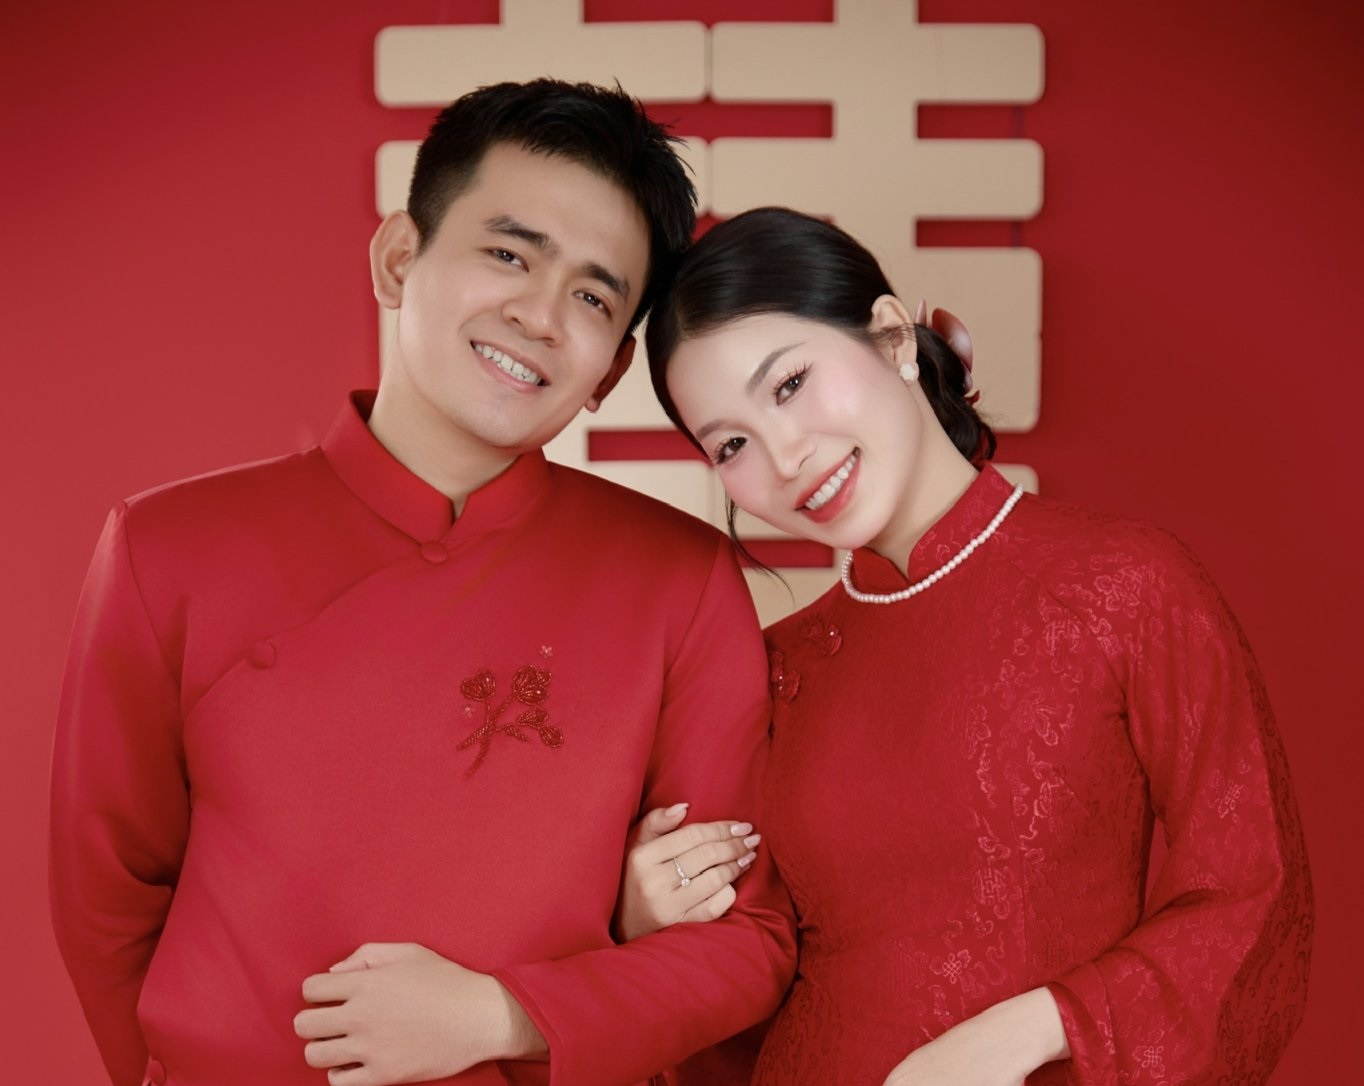
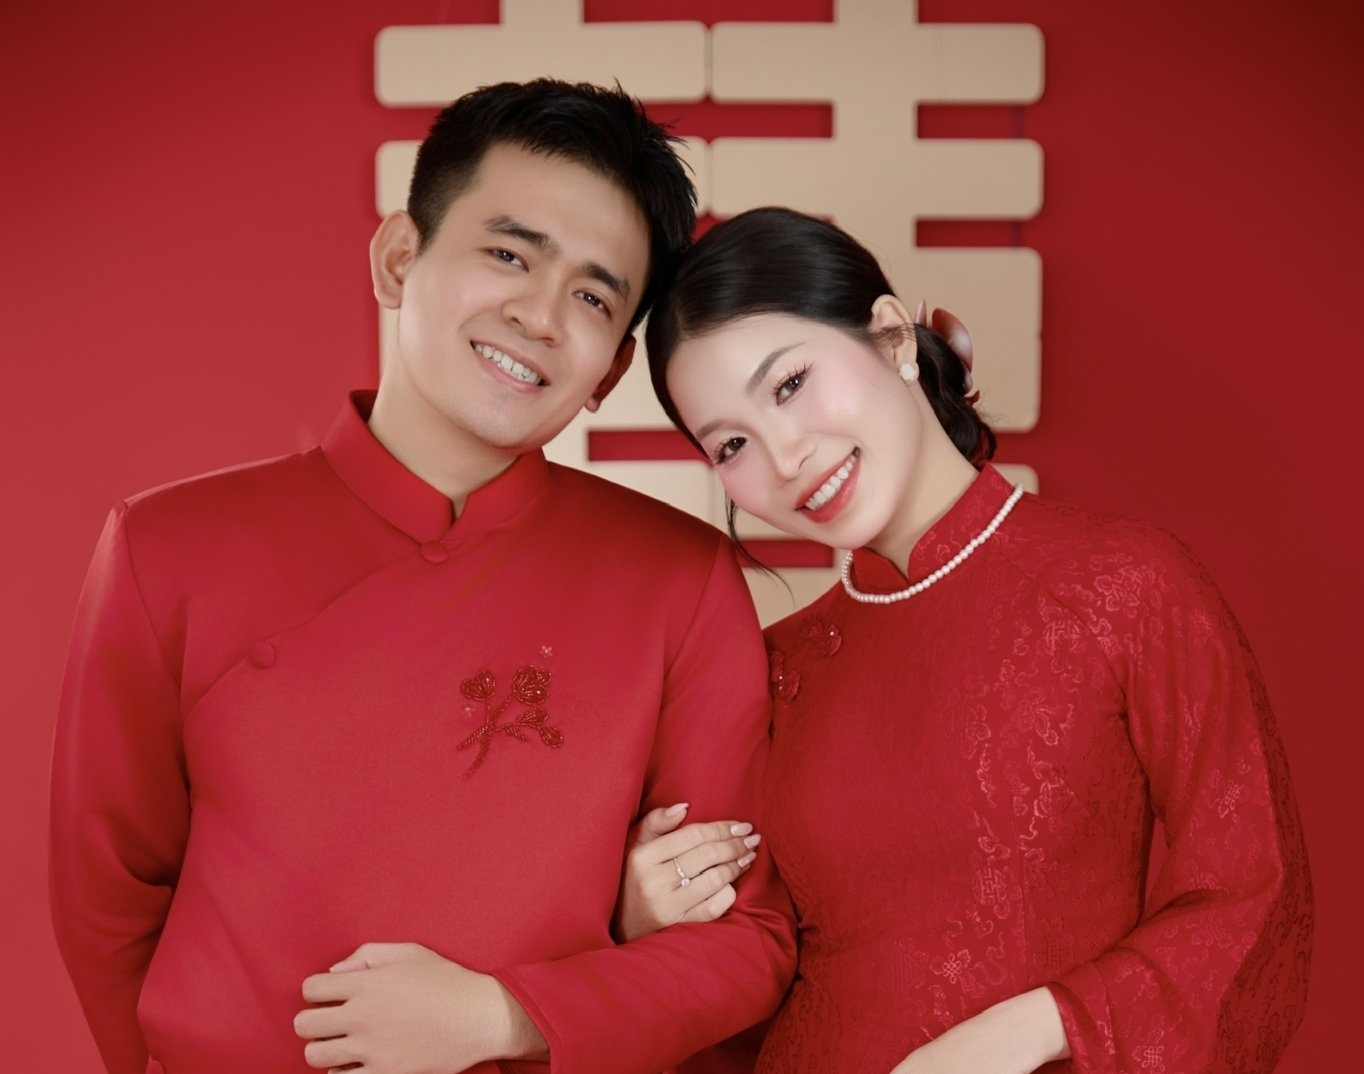
bigupdate

diff --git a/kh_wedding.html b/kh_wedding.html
@@ -1485,7 +1485,7 @@
   <div class="our-love-wrap">
     <div class="reveal">
       <div class="our-love-main-photo">
-        <img src="./image_wedding/10.jpg" alt="Our Love Main Banner">
+        <img src="./image_wedding/9.jpg" alt="Our Love Main Banner">
       </div>
     </div>
     
@@ -1496,22 +1496,26 @@
         <div class="marquee-track">
           <!-- Nhóm ảnh 1 -->
           <div class="marquee-group">
-            <div class="our-love-item"><img src="./image_wedding/8.jpg" alt="Our Love Photo 1"></div>
-            <div class="our-love-item"><img src="./image_wedding/9.jpg" alt="Our Love Photo 2"></div>
-            <div class="our-love-item"><img src="./image_wedding/7.jpg" alt="Our Love Photo 3"></div>
-            <div class="our-love-item"><img src="./image_wedding/4.jpg" alt="Our Love Photo 4"></div>
-            <div class="our-love-item"><img src="./image_wedding/5.jpg" alt="Our Love Photo 5"></div>
-            <div class="our-love-item"><img src="./image_wedding/6.jpg" alt="Our Love Photo 6"></div>
+            <div class="our-love-item"><img src="./image_wedding/10.jpg" alt="Our Love Photo 1"></div>
+            <div class="our-love-item"><img src="./image_wedding/11.jpg" alt="Our Love Photo 2"></div>
+            <div class="our-love-item"><img src="./image_wedding/12.jpg" alt="Our Love Photo 3"></div>
+            <div class="our-love-item"><img src="./image_wedding/13.jpg" alt="Our Love Photo 4"></div>
+            <div class="our-love-item"><img src="./image_wedding/14.jpg" alt="Our Love Photo 5"></div>
+            <div class="our-love-item"><img src="./image_wedding/15.jpg" alt="Our Love Photo 6"></div>
+            <div class="our-love-item"><img src="./image_wedding/16.jpg" alt="Our Love Photo 7"></div>
+            <div class="our-love-item"><img src="./image_wedding/17.jpg" alt="Our Love Photo 8"></div>
           </div>
 
           <!-- Nhóm ảnh 2 (Nhân bản) -->
           <div class="marquee-group" aria-hidden="true">
-            <div class="our-love-item"><img src="./image_wedding/8.jpg" alt="Our Love Photo 1"></div>
-            <div class="our-love-item"><img src="./image_wedding/9.jpg" alt="Our Love Photo 2"></div>
-            <div class="our-love-item"><img src="./image_wedding/7.jpg" alt="Our Love Photo 3"></div>
-            <div class="our-love-item"><img src="./image_wedding/4.jpg" alt="Our Love Photo 4"></div>
-            <div class="our-love-item"><img src="./image_wedding/5.jpg" alt="Our Love Photo 5"></div>
-            <div class="our-love-item"><img src="./image_wedding/6.jpg" alt="Our Love Photo 6"></div>
+            <div class="our-love-item"><img src="./image_wedding/10.jpg" alt="Our Love Photo 1"></div>
+            <div class="our-love-item"><img src="./image_wedding/11.jpg" alt="Our Love Photo 2"></div>
+            <div class="our-love-item"><img src="./image_wedding/12.jpg" alt="Our Love Photo 3"></div>
+            <div class="our-love-item"><img src="./image_wedding/13.jpg" alt="Our Love Photo 4"></div>
+            <div class="our-love-item"><img src="./image_wedding/14.jpg" alt="Our Love Photo 5"></div>
+            <div class="our-love-item"><img src="./image_wedding/15.jpg" alt="Our Love Photo 6"></div>
+            <div class="our-love-item"><img src="./image_wedding/16.jpg" alt="Our Love Photo 7"></div>
+            <div class="our-love-item"><img src="./image_wedding/17.jpg" alt="Our Love Photo 8"></div>
           </div>
         </div>
       </div>
